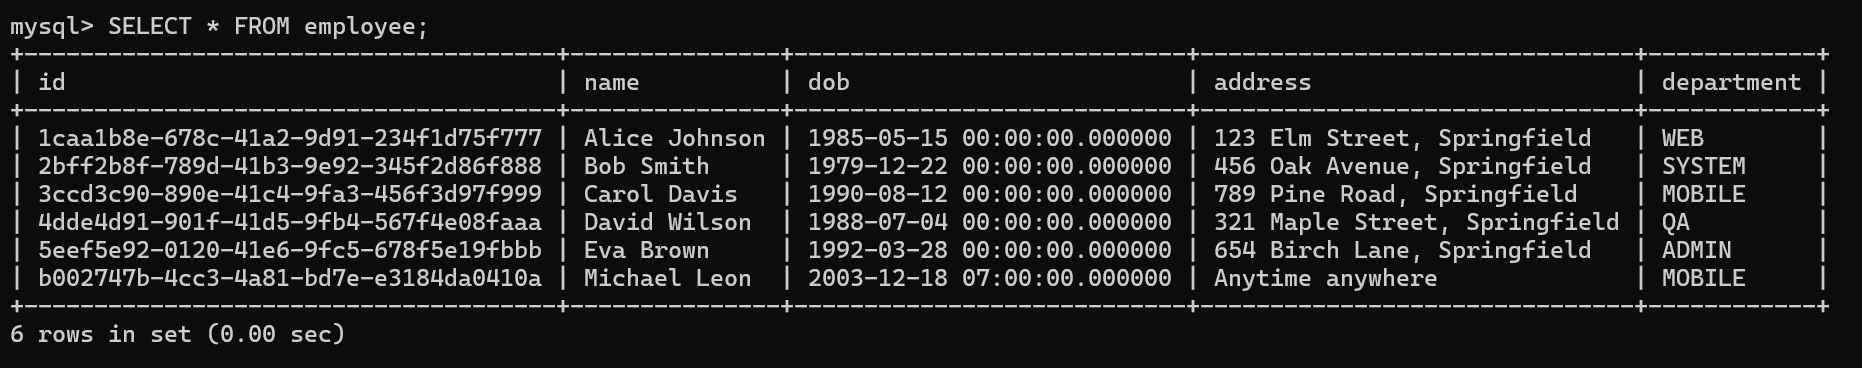
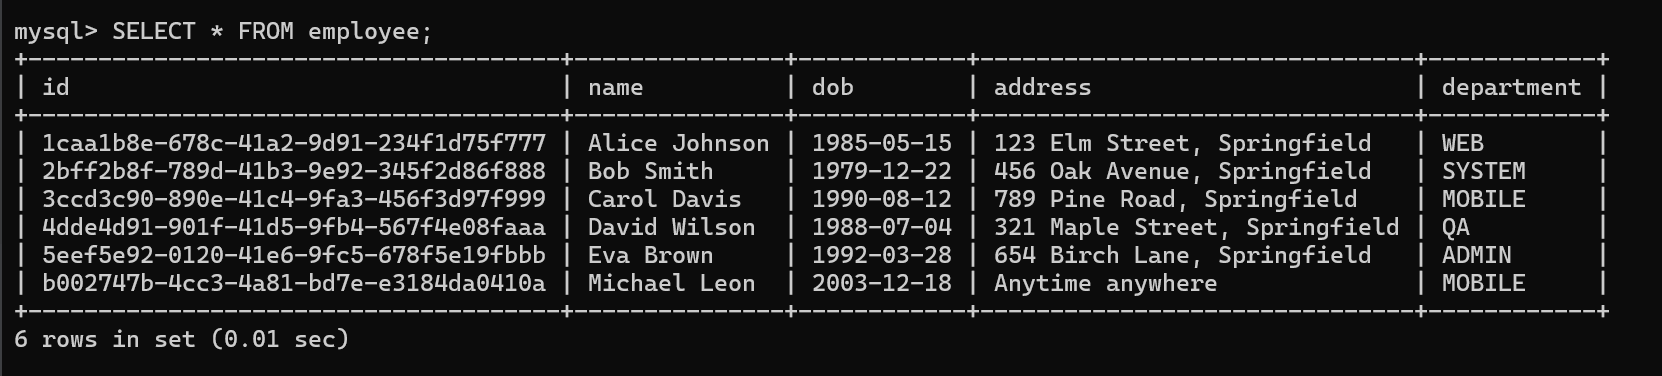
[Refactor] Update on Assignment 02

diff --git a/Week 04/Lecture 08/Assignment 02/lecture_8_2/src/main/java/com/example/lecture_8_2/model/Employee.java b/Week 04/Lecture 08/Assignment 02/lecture_8_2/src/main/java/com/example/lecture_8_2/model/Employee.java
@@ -1,7 +1,7 @@
 package com.example.lecture_8_2.model;
 
 import java.io.Serializable;
-import java.util.Date;
+import java.time.LocalDate;
 
 import jakarta.persistence.Entity;
 import jakarta.persistence.Id;
@@ -20,11 +20,11 @@ public class Employee implements Serializable {
     @Id
     private String id;
     private String name;
-    private Date dob;
+    private LocalDate dob;
     private String address;
     private String department;
 
-    public Employee(String id, String name, Date dob, String address, String department) {
+    public Employee(String id, String name, LocalDate dob, String address, String department) {
         this.id = id;
         this.name = name;
         this.dob = dob;

diff --git a/Week 04/Lecture 08/Assignment 02/lecture_8_2/src/main/java/com/example/lecture_8_2/repository/EmployeeRepository.java b/Week 04/Lecture 08/Assignment 02/lecture_8_2/src/main/java/com/example/lecture_8_2/repository/EmployeeRepository.java
@@ -24,7 +24,7 @@ public class EmployeeRepository {
             Employee employee = new Employee();
             employee.setId(rs.getString("id"));
             employee.setName(rs.getString("name"));
-            employee.setDob(rs.getDate("dob"));
+            employee.setDob(rs.getDate("dob").toLocalDate());
             employee.setAddress(rs.getString("address"));
             employee.setDepartment(rs.getString("department"));
             return employee;
